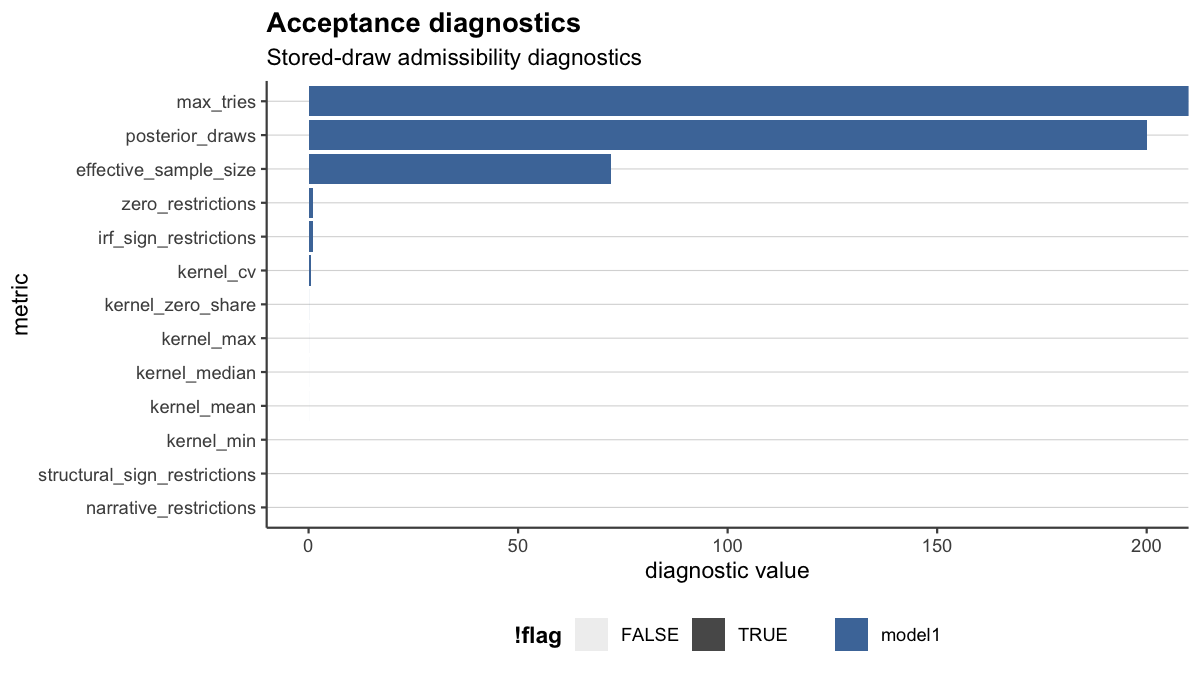
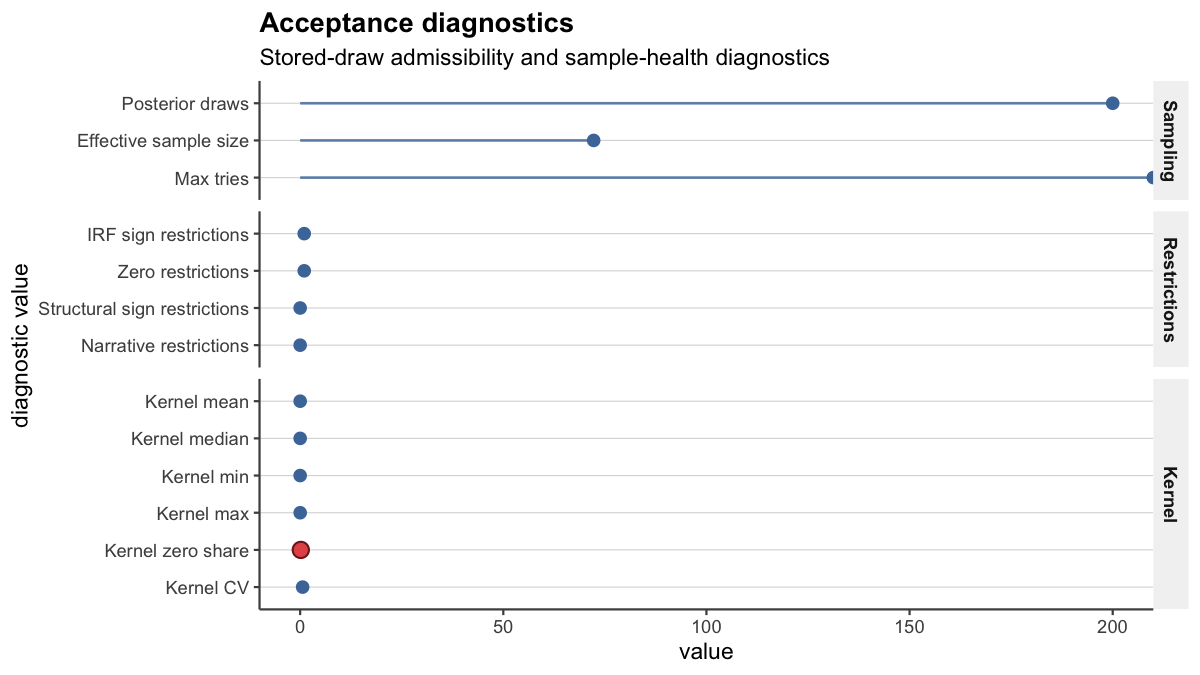
Redesign acceptance diagnostics plot

diff --git a/README.md b/README.md
@@ -259,6 +259,10 @@ compare_acceptance_diagnostics(baseline = post, alternative = post_alt)
 plot_acceptance_diagnostics(diag_tbl, metrics = c("effective_sample_size", "kernel_zero_share"))
 ```
 
+`plot_acceptance_diagnostics()` is a sample-health summary for sign-restricted
+models, not an economic-effects plot. The first diagnostics to inspect are
+usually `effective_sample_size` and `kernel_zero_share`.
+
 ## Model comparison
 
 ```r
